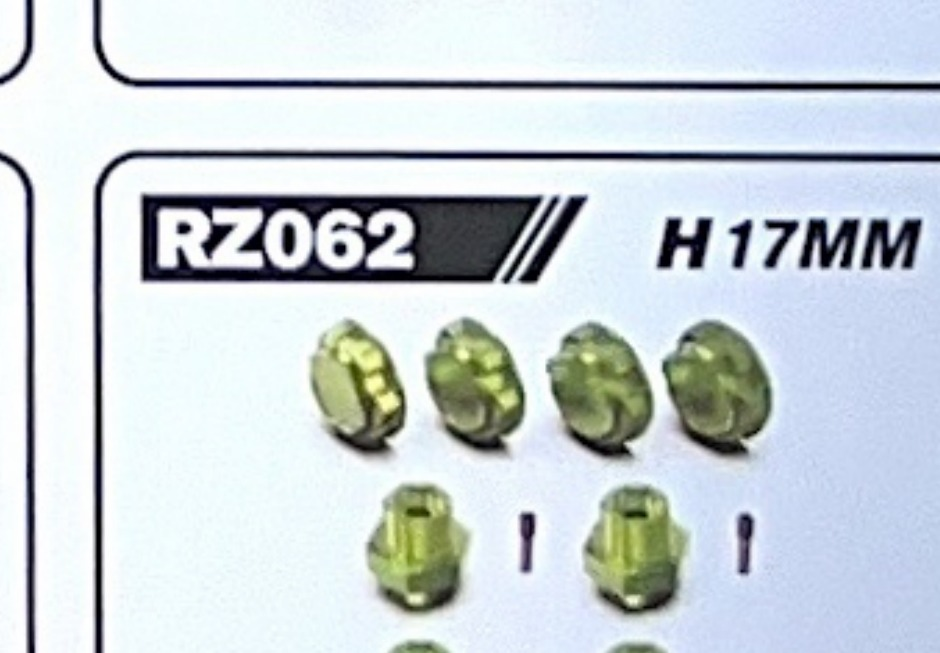
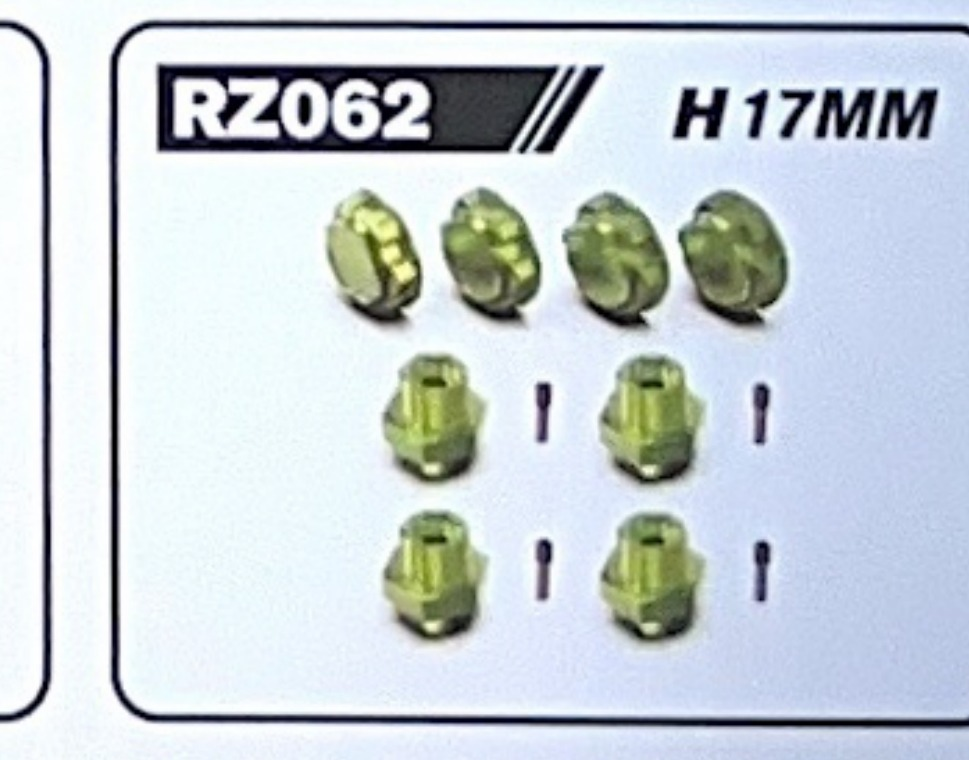
Re-crop Omni-Terminator parts with full borders; add alloy servo saver
Recrop catalog part photos to their full bordered cells (detected the grid
from gutters instead of estimating). Add the aluminum servo saver upgrade
image to the servo-saver row.

diff --git a/cars/Rlaarlo_OmniTerminator/README.md b/cars/Rlaarlo_OmniTerminator/README.md
@@ -74,7 +74,7 @@ Prioritized — 🔴 buy before you run it hard, 🟡 nice to have, 🟢 occasio
 | 🟡 | 🔧 | H17 alloy hex adaptors | RZ062 (or R11151) | Hexes round out | <img src="src/drivetrain_rlaarlo_hex_adapters_h17_rz062.jpg" width="180"> |
 | 🟡 | 🔧 | Shock absorbers (2-pack) + oil | R11001 | Leak/bend; oil for tuning | |
 | 🟡 | 🔧 | Full bearing kit | ABEC-3 set (eBay) | Dirt and sand kill bearings; keep a reseal set | |
-| 🟢 | 🔧 | Servo saver set | R11137 | Protects the steering servo | |
+| 🟢 | 🔧 | Servo saver (alloy upgrade) | R11137 (stock) | Protects the steering servo; alloy version available (fits RZ001 / 1/10 rally) | <img src="src/steering_rlaarlo_aluminum_servo_saver.jpg" width="180"> |
 | 🟢 | 🔧 | Paddle sand tires / body shell | R11152 / R11078 | Beach grip + cosmetic wear | <img src="src/wheels_rlaarlo_paddle_sand_tires_r11152.jpg" width="180"> |
 
 > **Pricing:** AliExpress (where the cheapest of these usually are) blocks automated price-scraping, so live $ figures are TBD. CVD driveshafts also show up on **Amazon / eBay** as "for Rlaarlo Omni-Terminator" parts. Paste an AliExpress listing or a cart total and I'll fill a price column.
